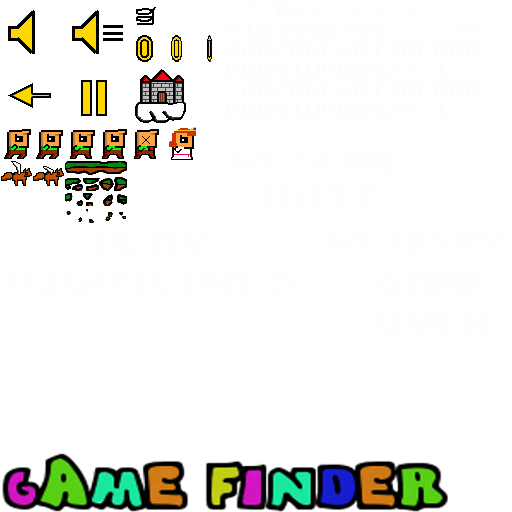
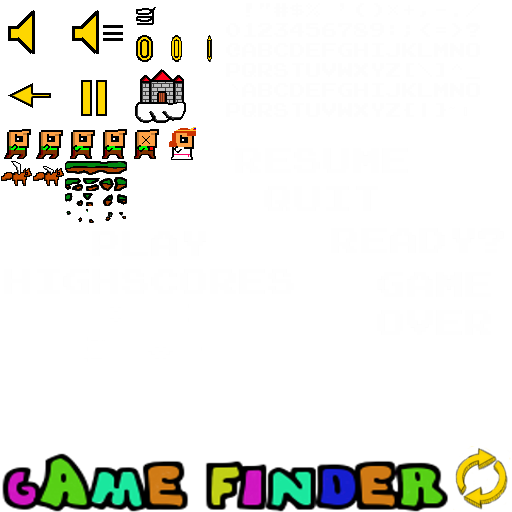
Ajout de pouvoir rejouer le niveau

Changed region(s): [[0.875, 0.875, 1.0, 1.0]]

diff --git a/ProjetAndroid/app/src/main/java/com/android/projet/projetandroid/game/superjumper/GameScreen.java b/ProjetAndroid/app/src/main/java/com/android/projet/projetandroid/game/superjumper/GameScreen.java
@@ -23,9 +23,11 @@ import com.badlogic.gdx.ScreenAdapter;
 import com.badlogic.gdx.graphics.GL20;
 import com.badlogic.gdx.graphics.OrthographicCamera;
 import com.badlogic.gdx.graphics.g2d.GlyphLayout;
+import com.badlogic.gdx.graphics.glutils.ShapeRenderer;
 import com.badlogic.gdx.math.Rectangle;
 import com.badlogic.gdx.math.Vector3;
 import com.android.projet.projetandroid.game.superjumper.World.WorldListener;
+import com.google.android.gms.wearable.Asset;
 
 public class GameScreen extends ScreenAdapter {
 	static final int GAME_READY = 0;
@@ -45,6 +47,7 @@ public class GameScreen extends ScreenAdapter {
 	Rectangle pauseBounds;
 	Rectangle resumeBounds;
 	Rectangle quitBounds;
+    Rectangle retryBounds;
 	int lastScore;
 	String scoreString;
 
@@ -54,8 +57,8 @@ public class GameScreen extends ScreenAdapter {
 		this.game = game;
 
 		state = GAME_READY;
-		guiCam = new OrthographicCamera(320, 480);
-		guiCam.position.set(320 / 2, 480 / 2, 0);
+		guiCam = new OrthographicCamera(480, 320);
+		guiCam.position.set(480 / 2, 320 / 2, 0);
 		touchPoint = new Vector3();
 		worldListener = new WorldListener() {
 			@Override
@@ -80,9 +83,10 @@ public class GameScreen extends ScreenAdapter {
 		};
 		world = new World(worldListener);
 		renderer = new WorldRenderer(game.batcher, world);
-		pauseBounds = new Rectangle(320 - 64, 480 - 64, 64, 64);
-		resumeBounds = new Rectangle(160 - 96, 240, 192, 36);
-		quitBounds = new Rectangle(160 - 96, 240 - 36, 192, 36);
+		pauseBounds = new Rectangle(480 - 64, 320 - 64, 64, 64);
+		resumeBounds = new Rectangle(240 - 96, 160, 192, 36);
+		quitBounds = new Rectangle(240 - 96, 160 - 36, 192, 36);
+        retryBounds = new Rectangle(480 - 64, 320 - 64, 64, 64);
 		lastScore = 0;
 		scoreString = "SCORE: 0";
 	}
@@ -183,9 +187,18 @@ public class GameScreen extends ScreenAdapter {
 	}
 
 	private void updateGameOver () {
-		if (Gdx.input.justTouched()) {
-			game.setScreen(new MainMenuScreen(game));
-		}
+        if (Gdx.input.justTouched()) {
+            guiCam.unproject(touchPoint.set(Gdx.input.getX(), Gdx.input.getY(), 0));
+            if (retryBounds.contains(touchPoint.x, touchPoint.y)) {
+                Assets.playSound(Assets.clickSound);
+                world = new World(worldListener);
+                renderer = new WorldRenderer(game.batcher, world);
+                state = GAME_READY;
+            }
+            else {
+                game.setScreen(new MainMenuScreen(game));
+            }
+        }
 	}
 
 	public void draw () {
@@ -219,30 +232,31 @@ public class GameScreen extends ScreenAdapter {
 	}
 
 	private void presentReady () {
-		game.batcher.draw(Assets.ready, 160 - 192 / 2, 240 - 32 / 2, 192, 32);
+		game.batcher.draw(Assets.ready, 240 - 192 / 2, 160 - 32 / 2, 192, 32);
 	}
 
 	private void presentRunning () {
-		game.batcher.draw(Assets.pause, 320 - 64, 480 - 64, 64, 64);
-		Assets.font.draw(game.batcher, scoreString, 16, 480 - 20);
+		game.batcher.draw(Assets.pause, 480 - 64, 320 - 64, 64, 64);
+		Assets.font.draw(game.batcher, scoreString, 16, 320 - 20);
 	}
 
 	private void presentPaused () {
-		game.batcher.draw(Assets.pauseMenu, 160 - 192 / 2, 240 - 96 / 2, 192, 96);
-		Assets.font.draw(game.batcher, scoreString, 16, 480 - 20);
+		game.batcher.draw(Assets.pauseMenu, 240 - 192 / 2, 160 - 96 / 2, 192, 96);
+		Assets.font.draw(game.batcher, scoreString, 16, 320 - 20);
 	}
 
 	private void presentLevelEnd () {
 		glyphLayout.setText(Assets.font, "the princess is ...");
-		Assets.font.draw(game.batcher, glyphLayout, 160 - glyphLayout.width / 2, 480 - 40);
+		Assets.font.draw(game.batcher, glyphLayout, 240 - glyphLayout.width / 2, 320 - 40);
 		glyphLayout.setText(Assets.font, "in another castle!");
-		Assets.font.draw(game.batcher, glyphLayout, 160 - glyphLayout.width / 2, 40);
+		Assets.font.draw(game.batcher, glyphLayout, 240 - glyphLayout.width / 2, 40);
 	}
 
 	private void presentGameOver () {
-		game.batcher.draw(Assets.gameOver, 160 - 160 / 2, 240 - 96 / 2, 160, 96);
+        game.batcher.draw(Assets.circleArrow, 480-64, 320-64);
+		game.batcher.draw(Assets.gameOver, 240 - 160 / 2, 160 - 96 / 2, 160, 96);
 		glyphLayout.setText(Assets.font, scoreString);
-		Assets.font.draw(game.batcher, scoreString, 160 - glyphLayout.width / 2, 480 - 20);
+		Assets.font.draw(game.batcher, scoreString, 240 - glyphLayout.width / 2, 320 - 20);
 	}
 
 	@Override

diff --git a/ProjetAndroid/app/src/main/java/com/android/projet/projetandroid/game/superjumper/Assets.java b/ProjetAndroid/app/src/main/java/com/android/projet/projetandroid/game/superjumper/Assets.java
@@ -40,6 +40,7 @@ public class Assets {
 	public static TextureRegion pause;
 	public static TextureRegion spring;
 	public static TextureRegion castle;
+    public static TextureRegion circleArrow;
 	public static Animation coinAnim;
 	public static Animation bobJump;
 	public static Animation bobFall;
@@ -75,6 +76,7 @@ public class Assets {
 		soundOn = new TextureRegion(items, 64, 0, 64, 64);
 		arrow = new TextureRegion(items, 0, 64, 64, 64);
 		pause = new TextureRegion(items, 64, 64, 64, 64);
+        circleArrow = new TextureRegion(items, 450, 445, 64, 64);
 
 		spring = new TextureRegion(items, 128, 0, 32, 32);
 		castle = new TextureRegion(items, 128, 64, 64, 64);
